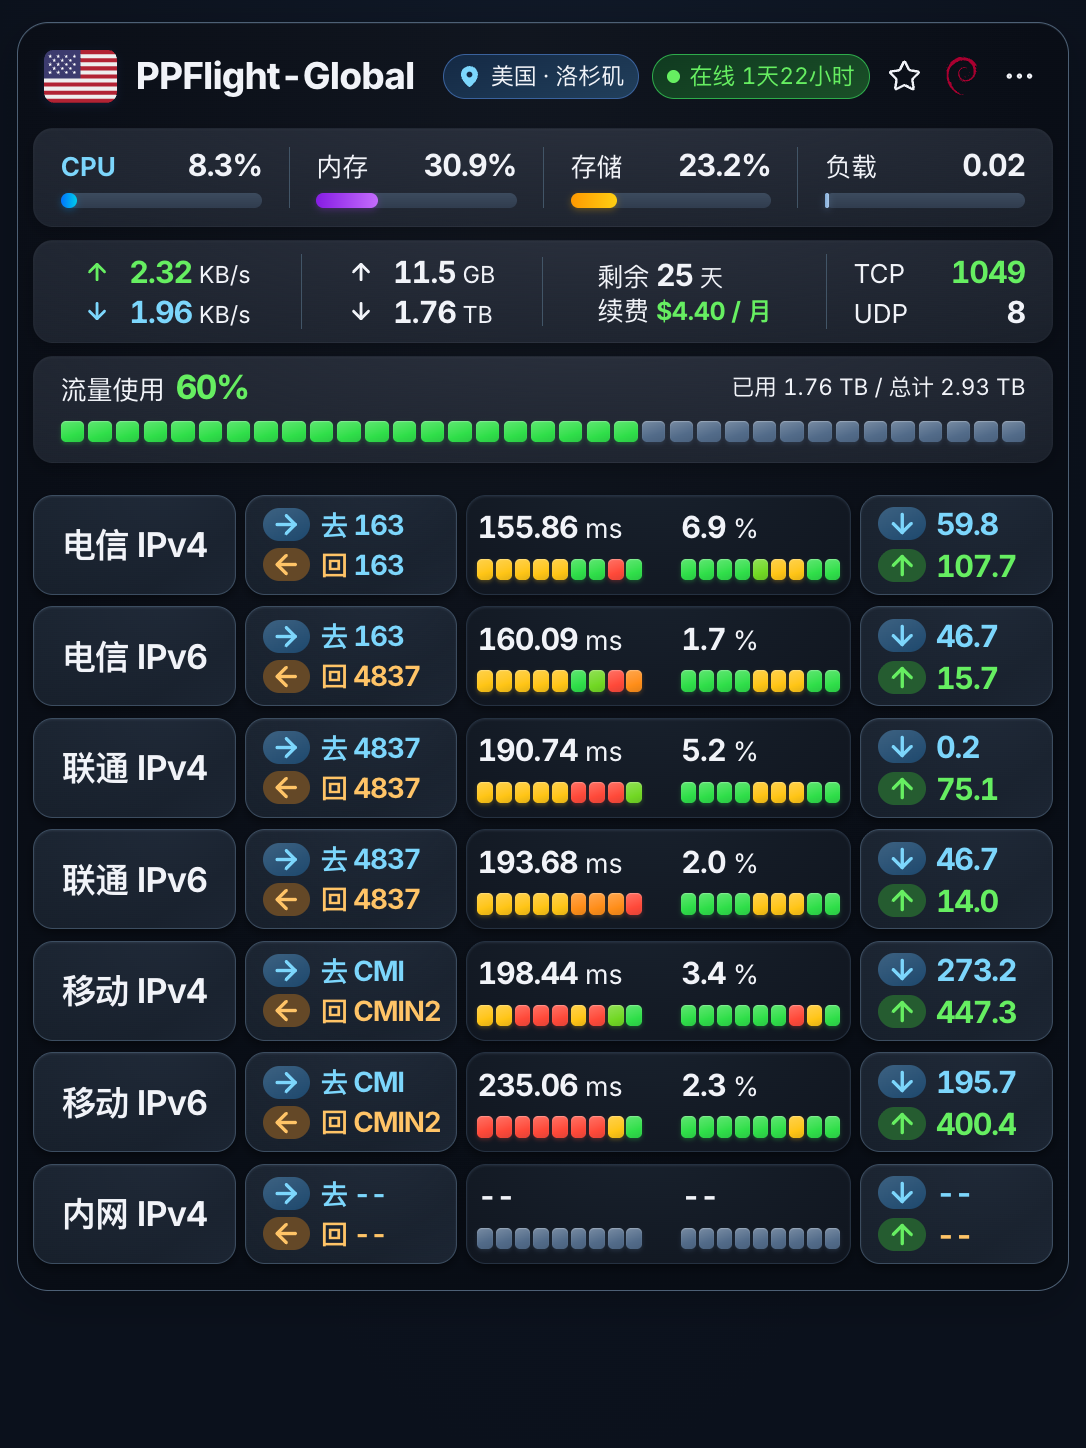
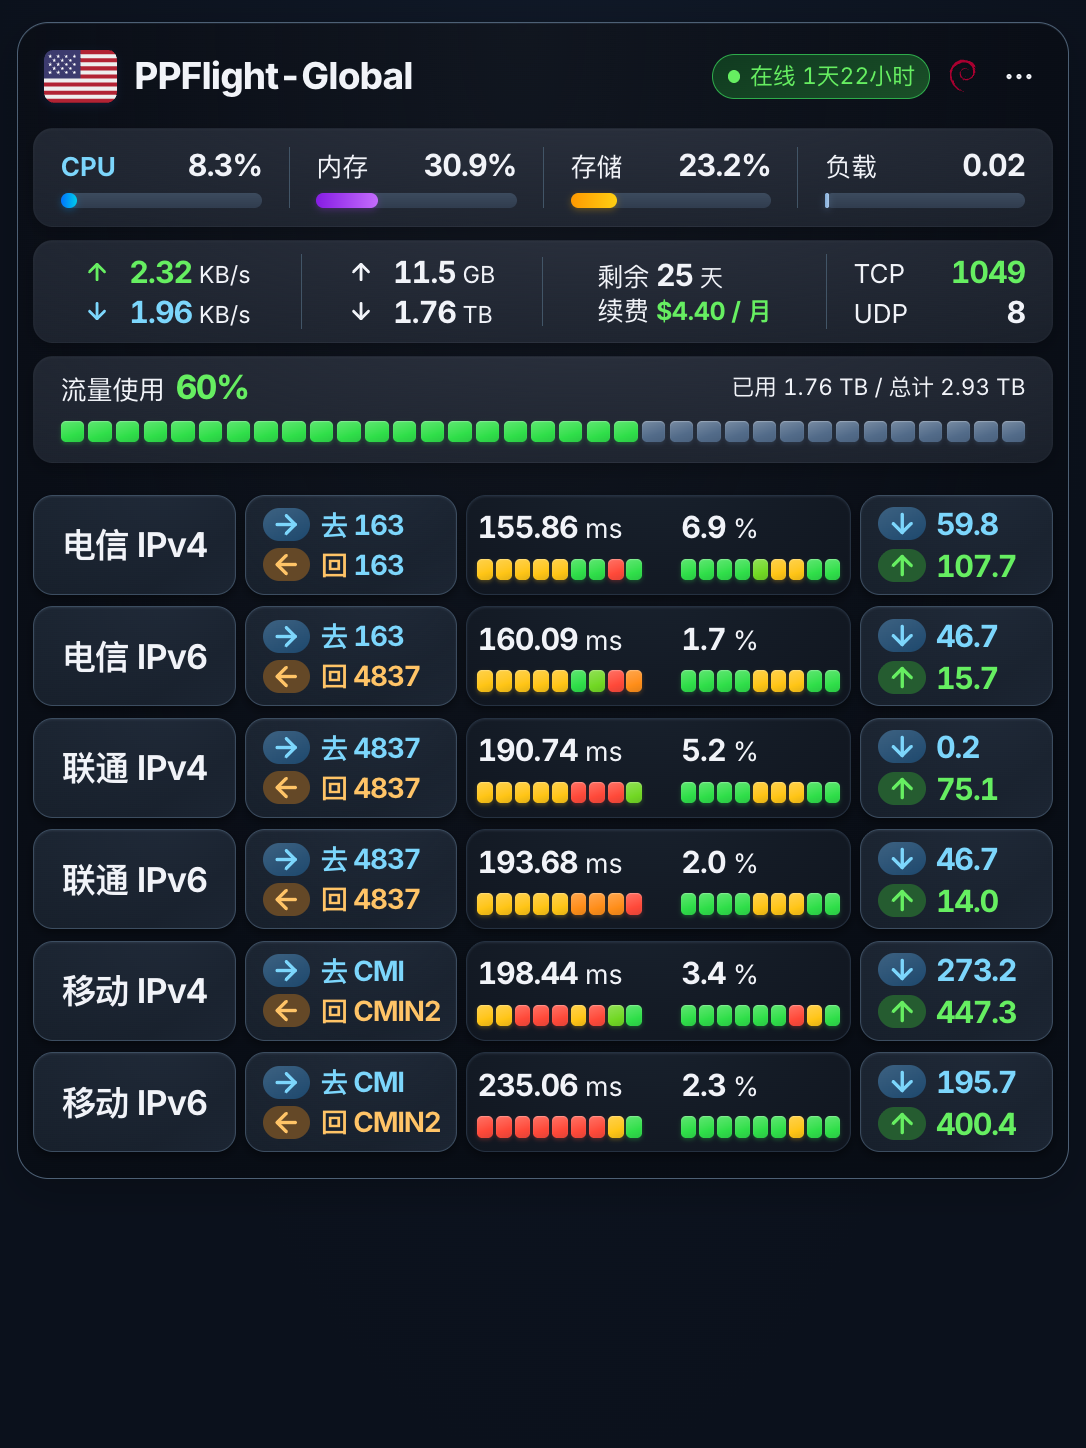
fix: honor per-node Ping bindings in Crystal cards

Changed region(s): [[0.1215, 0.0311, 0.9116, 0.0932], [0.0304, 0.7769, 0.4254, 0.8702], [0.4254, 0.7769, 0.9724, 0.8702]]

diff --git a/src/components/aurora/AuroraNodeCard.tsx b/src/components/aurora/AuroraNodeCard.tsx
@@ -207,12 +207,12 @@ function QualityValue({
   );
 }
 
-function CrystalQuality({ source, loss = false }: { source?: HomepagePingSourceRow; loss?: boolean }) {
-  const samples = source?.samples.slice(-CRYSTAL_HISTORY_SEGMENTS) ?? [];
-  const value = loss ? source?.lossPercent : source?.latencyMs;
+function CrystalQuality({ source, loss = false }: { source: HomepagePingSourceRow; loss?: boolean }) {
+  const samples = source.samples.slice(-CRYSTAL_HISTORY_SEGMENTS);
+  const value = loss ? source.lossPercent : source.latencyMs;
   const unit = loss ? "%" : "ms";
   return (
-    <span className="crystal-quality-metric" title={source?.title || "暂无质量观测"}>
+    <span className="crystal-quality-metric" title={source.title}>
       <span><b>{value == null ? "--" : value.toFixed(loss ? 1 : 2)}</b>{value != null && <> {unit}</>}</span>
       <span className="crystal-history" aria-hidden="true">
         {Array.from({ length: CRYSTAL_HISTORY_SEGMENTS }, (_, index) => {
@@ -655,14 +655,6 @@ export const NetworkSummary = memo(function NetworkSummary({
     settings.homepagePingTaskGroups,
     settings.homepagePingTaskOrder[uuid],
   );
-  const nonCarrierRows = rows.filter((row) => !identifyPingSource(row));
-  const privateRows = crystal && settings.showPingChart ? FAMILIES.flatMap(family => {
-    const source = nonCarrierRows.find(row =>
-      /内网|私网|\b(?:private|lan)\b/i.test(`${row.group} ${row.name}`) && pingSourceFamily(row) === family,
-    );
-    return source ? [{ family, source }] : [];
-  }) : [];
-  const extraRows = nonCarrierRows.filter(row => !privateRows.some(({ source }) => source === row));
   const routeNode =
     routes.data?.display === false ? undefined : routes.data?.nodes[uuid];
   const speedNode =
@@ -897,19 +889,29 @@ export const NetworkSummary = memo(function NetworkSummary({
         ))}
     </div>
   );
+  // Ping summaries can outlive a binding change until the next poll.
+  const crystalSources = crystal ? rows.filter(({ taskId }) =>
+    settings.homepagePingBindings[String(taskId)]?.includes(uuid),
+  ) : [];
   const crystalRows = crystal ? [
-    ...CARRIERS.flatMap(carrier => families.map(family => ({
-      carrier,
-      family,
-      source: qualityFamilies.includes(family) ? selectCarrierPing(rows, carrier, family) : undefined,
-    }))),
+    ...CARRIERS.flatMap(carrier => FAMILIES.flatMap(family => {
+      if (!settings.showPingChart && !routeFamilies.includes(family) && !speedFamilies.includes(family)) return [];
+      const source = selectCarrierPing(crystalSources, carrier, family);
+      return source ? [{ carrier, family, source }] : [];
+    })),
     ...FAMILIES.flatMap(family => {
-      const privateRow = privateRows.find(row => row.family === family);
-      return privateRow || (family === "4" && families.includes("4"))
-        ? [{ carrier: undefined, family, source: privateRow?.source }]
-        : [];
+      if (!settings.showPingChart) return [];
+      const source = crystalSources.find(row =>
+        !identifyPingSource(row) &&
+        /内网|私网|\b(?:private|lan)\b/i.test(`${row.group} ${row.name}`) &&
+        pingSourceFamily(row) === family,
+      );
+      return source ? [{ carrier: undefined, family, source }] : [];
     }),
   ] : [];
+  const extraRows = crystal
+    ? crystalSources.filter(row => !crystalRows.some(({ source }) => source === row))
+    : rows.filter(row => !identifyPingSource(row));
   const crystalColumns = [
     "minmax(0, 20fr)",
     routes.data?.display !== false && "minmax(0, 21fr)",
@@ -957,16 +959,17 @@ export const NetworkSummary = memo(function NetworkSummary({
         <>
           {crystalRows.map(({ carrier, family, source }) => {
             const name = `${carrier ?? "内网"} IPv${family}`;
-            const quality = <><CrystalQuality source={source} /><CrystalQuality source={source} loss /></>;
             return (
               <div className="crystal-network-row" key={name} data-family={family} data-carrier={carrier ?? "内网"}>
                 <strong className="crystal-network-name">{name}</strong>
                 {routes.data?.display !== false && routePair(carrier, family)}
-                {settings.showPingChart && (source ? (
-                  <Link className="crystal-quality" to={compareUrl} aria-label={`${name} 质量历史 · 延迟 ${source.latencyLabel} · 丢包 ${source.lossLabel}`}>
-                    {quality}
+                {settings.showPingChart && (
+                  <Link className="crystal-quality" to={buildHomepagePingCompareUrl(uuid, [source.taskId])}
+                    aria-label={`${name} 质量历史 · ${source.name} · 延迟 ${source.latencyLabel} · 丢包 ${source.lossLabel}`}>
+                    <CrystalQuality source={source} />
+                    <CrystalQuality source={source} loss />
                   </Link>
-                ) : <div className="crystal-quality" aria-label={`${name} 暂无质量观测`}>{quality}</div>)}
+                )}
                 {speeds.data?.display !== false && speedPair(carrier, family)}
               </div>
             );
@@ -975,9 +978,11 @@ export const NetworkSummary = memo(function NetworkSummary({
             <footer className="crystal-network-controls">
               {denseView === "standard" && routesVisible && <span>最近检测 {time(routeTimes.at(-1))}</span>}
               {denseView === "standard" && speedsVisible && <span>最近测速 {time(speedTimes.at(-1))} · P1 单连接</span>}
-              {speedsVisible && (cities.length > 1 || denseView === "standard") && cityPicker}
-              {routesVisible && <CheckAction uuid={uuid} module="routes" label="检测线路" />}
-              {speedsVisible && <CheckAction uuid={uuid} module="china-speed" label="测速" />}
+              <div className="crystal-network-actions">
+                {speedsVisible && (cities.length > 1 || denseView === "standard") && cityPicker}
+                {routesVisible && <CheckAction uuid={uuid} module="routes" label="检测线路" />}
+                {speedsVisible && <CheckAction uuid={uuid} module="china-speed" label="测速" />}
+              </div>
             </footer>
           )}
         </>
@@ -1329,14 +1334,14 @@ export const NetworkSummary = memo(function NetworkSummary({
             : "暂无线路观测；可在工作室配置网络观测。"}
         </p>
       )}
-      {!families.length && !routes.isPending && !extraRows.length && !privateRows.length && (
+      {!crystal && !families.length && !routes.isPending && !extraRows.length && (
         <p className="aurora-empty">尚未配置三网检测任务</p>
       )}
       {settings.showPingChart && !!extraRows.length && (
         <details className="aurora-extra">
           <summary>其他质量观测（{extraRows.length}）</summary>
           {extraRows.map((row) => (
-            <Link to={compareUrl} key={row.taskId}>
+            <Link to={crystal ? buildHomepagePingCompareUrl(uuid, [row.taskId]) : compareUrl} key={row.taskId}>
               {row.name}
               <QualityValue source={row} />
               <QualityValue source={row} loss />

diff --git a/src/styles/crystal-card.css b/src/styles/crystal-card.css
@@ -14,8 +14,6 @@
   --crystal-arrow-blue: #cfedff;
   --crystal-arrow-green: #d0fbd2;
   --crystal-arrow-amber: #fff0cb;
-  --crystal-blue-badge: #dceaff;
-  --crystal-blue-outline: #9fc5ff;
   --crystal-green-badge: #d9ffdc;
   --crystal-green-outline: #65db7a;
   --crystal-shell: radial-gradient(ellipse at 46% 0%, #fff8, transparent 65%), linear-gradient(155deg, #f3f7fe, #eaf1fc 61%, #f2f6fd);
@@ -62,8 +60,6 @@
   --crystal-arrow-blue: #1d486d;
   --crystal-arrow-green: #255c30;
   --crystal-arrow-amber: #644827;
-  --crystal-blue-badge: #142944;
-  --crystal-blue-outline: #3a629d;
   --crystal-green-badge: #103a20;
   --crystal-green-outline: #2eac4b;
   --crystal-shell: radial-gradient(ellipse at 48% 0%, #151b259c, transparent 67%), linear-gradient(160deg, #0a0e17, #080d15);
@@ -81,16 +77,14 @@
 
 .crystal-header {
   display: grid;
-  grid-template-columns: auto minmax(0, 1fr) repeat(5, auto);
-  grid-template-areas: "flag name location status favorite os actions";
+  grid-template-columns: auto minmax(0, 1fr) repeat(3, auto);
   align-items: center;
-  gap: max(4px, 1.2cqi);
+  gap: max(4px, 1.05cqi);
   min-height: max(27px, 6.3cqi);
   margin: 0 max(2px, 1.05cqi) max(8px, 1.75cqi);
 }
 
 .crystal-flag {
-  grid-area: flag;
   display: grid;
   overflow: hidden;
   border-radius: max(3px, 1.05cqi);
@@ -103,7 +97,6 @@
 .crystal-flag img { object-fit: cover !important; }
 
 .crystal-name {
-  grid-area: name;
   margin-inline-start: max(1px, .55cqi);
   overflow: hidden;
   color: inherit;
@@ -115,7 +108,6 @@
 }
 .crystal-name:hover { color: var(--crystal-blue); }
 
-.crystal-location,
 .crystal-status {
   display: flex;
   align-items: center;
@@ -126,27 +118,6 @@
   padding: .36em .62em;
   font-size: clamp(9px, 2.18cqi, 24px);
   white-space: nowrap;
-}
-.crystal-location {
-  grid-area: location;
-  max-width: 26cqi;
-  overflow: hidden;
-  border-color: var(--crystal-blue-outline);
-  background: linear-gradient(160deg, var(--crystal-blue-badge), color-mix(in srgb, var(--crystal-blue-badge), var(--crystal-blue) 13%));
-  color: var(--crystal-ink);
-}
-.crystal-location svg {
-  width: 1em;
-  height: 1em;
-  flex: none;
-  color: var(--crystal-blue);
-  fill: currentColor;
-  stroke-width: 2;
-}
-.crystal-location svg circle { fill: var(--crystal-blue-badge); stroke: none; }
-.crystal-location > span { overflow: hidden; text-overflow: ellipsis; }
-.crystal-status {
-  grid-area: status;
   border-color: var(--crystal-line);
   background: var(--surface-sunken);
   color: var(--text-secondary);
@@ -169,27 +140,23 @@
   color: color-mix(in srgb, var(--status-error) 72%, var(--crystal-ink));
 }
 
-.crystal-header :is(.crystal-favorite, .crystal-os, .dense-node-actions summary) {
+.crystal-header :is(.crystal-os, .dense-node-actions summary) {
   display: grid;
   place-items: center;
-  width: clamp(19px, 4.25cqi, 45px);
-  height: clamp(23px, 4.9cqi, 52px);
+  width: clamp(24px, 4.25cqi, 45px);
+  height: clamp(26px, 4.9cqi, 52px);
   padding: 0;
   border: 0;
   border-radius: 7px;
   color: inherit;
   cursor: pointer;
 }
-.crystal-header :is(.crystal-favorite, .crystal-os, .dense-node-actions summary):hover {
+.crystal-header :is(.crystal-os, .dense-node-actions summary):hover {
   background: color-mix(in srgb, var(--crystal-blue) 12%, transparent);
 }
-.crystal-favorite { grid-area: favorite; }
-.crystal-favorite[aria-pressed="true"] { color: var(--crystal-amber); }
-.crystal-favorite[aria-pressed="true"] svg { fill: currentColor; }
-.crystal-os { grid-area: os; }
-.crystal-os .os-logo { width: 96%; height: 91%; object-fit: contain; }
-.crystal-header :is(.crystal-favorite, .dense-node-actions summary) svg { width: 78%; height: 78%; stroke-width: 1.65; }
-.crystal-header .dense-node-actions { grid-area: actions; position: relative; }
+.crystal-os .os-logo { width: 82%; height: 82%; object-fit: contain; }
+.crystal-header .dense-node-actions summary svg { width: 76%; height: 76%; stroke-width: 1.65; }
+.crystal-header .dense-node-actions { position: relative; }
 .crystal-header .dense-node-actions summary { list-style: none; }
 .crystal-header .dense-node-actions summary::-webkit-details-marker { display: none; }
 .crystal-header .dense-node-menu {
@@ -475,6 +442,7 @@ a.crystal-quality:hover { filter: brightness(.93); }
 [data-direction="upload"] > .crystal-arrow { background: var(--crystal-arrow-green); color: var(--crystal-green); }
 
 .crystal-network-controls {
+  --crystal-control-height: clamp(26px, 4.25cqi, 34px);
   display: flex;
   flex-wrap: wrap;
   align-items: center;
@@ -482,25 +450,33 @@ a.crystal-quality:hover { filter: brightness(.93); }
   color: var(--text-secondary);
   font-size: clamp(10px, 1.5cqi, 14px);
 }
-.crystal-network-controls:not(:empty) { margin-top: max(6px, 1cqi); }
+.crystal-network-controls:has(> span, .aurora-city, .aurora-check) { margin-top: max(6px, 1cqi); }
+.crystal-network-actions {
+  display: flex;
+  flex-wrap: wrap;
+  align-items: center;
+  gap: 4px 8px;
+}
+.crystal-network-actions:empty { display: none; }
 .crystal-network-controls :is(.aurora-city, .aurora-check > button) {
+  box-sizing: border-box;
+  height: var(--crystal-control-height);
+  gap: .45em;
+  padding: 0 .85em;
+  border-radius: 999px;
   color: var(--accent-600);
   background: var(--surface);
   border-color: var(--border);
+  font-size: inherit;
+  line-height: 1;
 }
-.crystal-network-controls .aurora-check > button svg { width: 1em; height: 1em; }
+.crystal-network-controls .aurora-city select { align-self: stretch; padding-block: 0; }
+.crystal-network-controls :is(.aurora-city, .aurora-check > button) svg { width: 1em; height: 1em; flex: none; }
 .crystal-network :is(.aurora-empty, .aurora-extra) { font-size: clamp(10px, 1.42cqi, 14px); }
 .crystal-network .aurora-extra > a { color: var(--text-primary); }
 .crystal-network .aurora-quality-value { color: var(--text-primary) !important; }
 
 @container (max-width: 560px) {
-  .crystal-header {
-    grid-template-columns: auto minmax(0, 1fr) repeat(3, auto);
-    grid-template-areas: "flag name favorite os actions" ". location location status status";
-    row-gap: 2px;
-  }
-  .crystal-location, .crystal-status { width: fit-content; max-width: 100%; }
-  .crystal-status { justify-self: end; }
   .crystal-stats svg { margin-inline-end: .14em; }
   .crystal-stats > div,
   .crystal-resources > a { padding-inline: max(3px, 1.05cqi); }

diff --git a/src/components/cupertino/CrystalNodeCard.tsx b/src/components/cupertino/CrystalNodeCard.tsx
@@ -1,14 +1,12 @@
 import { memo, type CSSProperties } from "react";
 import { Link } from "react-router-dom";
-import { ArrowDown, ArrowUp, Ellipsis, MapPin, Star } from "lucide-react";
+import { ArrowDown, ArrowUp, Ellipsis } from "lucide-react";
 import { NetworkSummary } from "@/components/aurora/AuroraNodeCard";
 import { Flag } from "@/components/ui/Flag";
 import { OsLogo } from "@/components/ui/OsLogo";
-import { toggleLuminousFavorite, useLuminousFavorites } from "@/hooks/useLuminousFavorites";
+import { useLuminousFavorites } from "@/hooks/useLuminousFavorites";
 import { useNodeCardModel } from "@/hooks/useNodeCardModel";
 import { formatBytes } from "@/utils/format";
-import { getDisplayRegionCode } from "@/utils/geo";
-import { regionLabel } from "@/utils/regionLabel";
 import { DenseNodeActions } from "./DenseNodeActions";
 import "@/styles/aurora.css";
 import "@/styles/crystal-card.css";
@@ -30,11 +28,6 @@ export default memo(function CrystalNodeCard({ uuid, compact }: { uuid: string; 
   const status = online
     ? uptime.unit ? `在线 ${uptime.value}${uptime.unit}${uptimeHours ? `${uptimeHours}小时` : ""}` : "在线"
     : node.online === false ? "离线" : "待上报";
-  const country = regionLabel(node.region);
-  const locality = getDisplayRegionCode(node.region) !== "UN"
-    ? node.region?.split(/[·/|,，]/).slice(1).map(part => part.trim()).filter(Boolean).join(" · ")
-    : "";
-  const location = locality ? `${country} · ${locality}` : country;
   const labels = compact ? [] : [...new Set(
     [node.business_role, ...tags.map(({ label }) => label), node.group, node.provider]
       .map(label => label?.trim())
@@ -59,9 +52,7 @@ export default memo(function CrystalNodeCard({ uuid, compact }: { uuid: string; 
       <header className="crystal-header">
         <span className="crystal-flag"><Flag region={node.region} size={52} /></span>
         <Link className="crystal-name" to={detailUrl} title={node.name}>{node.name}</Link>
-        <span className="crystal-location" title={location}><MapPin aria-hidden="true" /><span>{location}</span></span>
-        <span className="crystal-status" data-online={node.online} title={node.public_remark || status}>{status}</span>
-        <button type="button" className="crystal-favorite" aria-label={favorite ? "取消收藏" : "收藏节点"} aria-pressed={favorite} onClick={() => toggleLuminousFavorite(uuid)}><Star /></button>
+        <span className="crystal-status" data-online={node.online} title={node.public_remark ? `${status} · ${node.public_remark}` : status}>{status}</span>
         <Link className="crystal-os" to={perfUrl} aria-label={`${node.name} 性能趋势`} title={`${model.osName} · 性能趋势`}><OsLogo value={node.os} size={42} /></Link>
         <DenseNodeActions icon={Ellipsis} node={node} detailUrl={detailUrl} favorite={favorite} />
       </header>

diff --git a/README.md b/README.md
@@ -103,6 +103,8 @@ Aster 1.12.0 将配置统一到 **工作室 → 网络观测**：主页延迟、
 
 1.43.0 新增「晶透 · 亮色」与「晶透 · 暗色」。两套外观沿用「原生 · 密集」的紧凑／标准视图，把去回程线路、延迟、丢包与上下行测速按运营商和 IPv4／IPv6 归到同一行。可在首页快捷外观菜单切换，或在 Aster 工作室设为默认外观。[亮色实拍](docs/images/crystal/light.png) · [暗色实拍](docs/images/crystal/dark.png)。
 
+1.43.1 修复晶透卡片的延迟任务行，按各 VPS 的主页延迟绑定显示运营商和内网任务。顶部将旗帜、节点名、在线状态、系统图标与操作菜单排在一行，底部地区、线路检测和测速控件采用统一高度。
+
 ## 效果预览
 
 以下图片由当前仓库代码在官方 Komari 兼容模拟环境中直接运行并截图，展示 Aster 当前界面；演示节点和监控数值均为模拟数据。

diff --git a/.github/release-notes/v1.43.1.md b/.github/release-notes/v1.43.1.md
@@ -1,0 +1,9 @@
+优化「晶透 · 亮色」与「晶透 · 暗色」卡片。
+
+- 延迟矩阵按各 VPS 的实际主页延迟绑定生成。线路和测速只补充对应行的数据。已绑定的任务即使还没有采样，也可打开该任务的质量历史。
+- 顶部单行展示旗帜、节点名、在线时长、系统图标和操作菜单。收藏入口位于操作菜单。
+- 底部的测速地区、线路检测和测速按钮统一高度与圆角。
+
+下载 **Komari-Theme-Aster-v1.43.1.zip** 更新主题。
+
+[亮色运行截图](https://github.com/shaolonger/Komari-Theme-Aster/blob/v1.43.1/docs/images/crystal/light.png) · [暗色运行截图](https://github.com/shaolonger/Komari-Theme-Aster/blob/v1.43.1/docs/images/crystal/dark.png)
